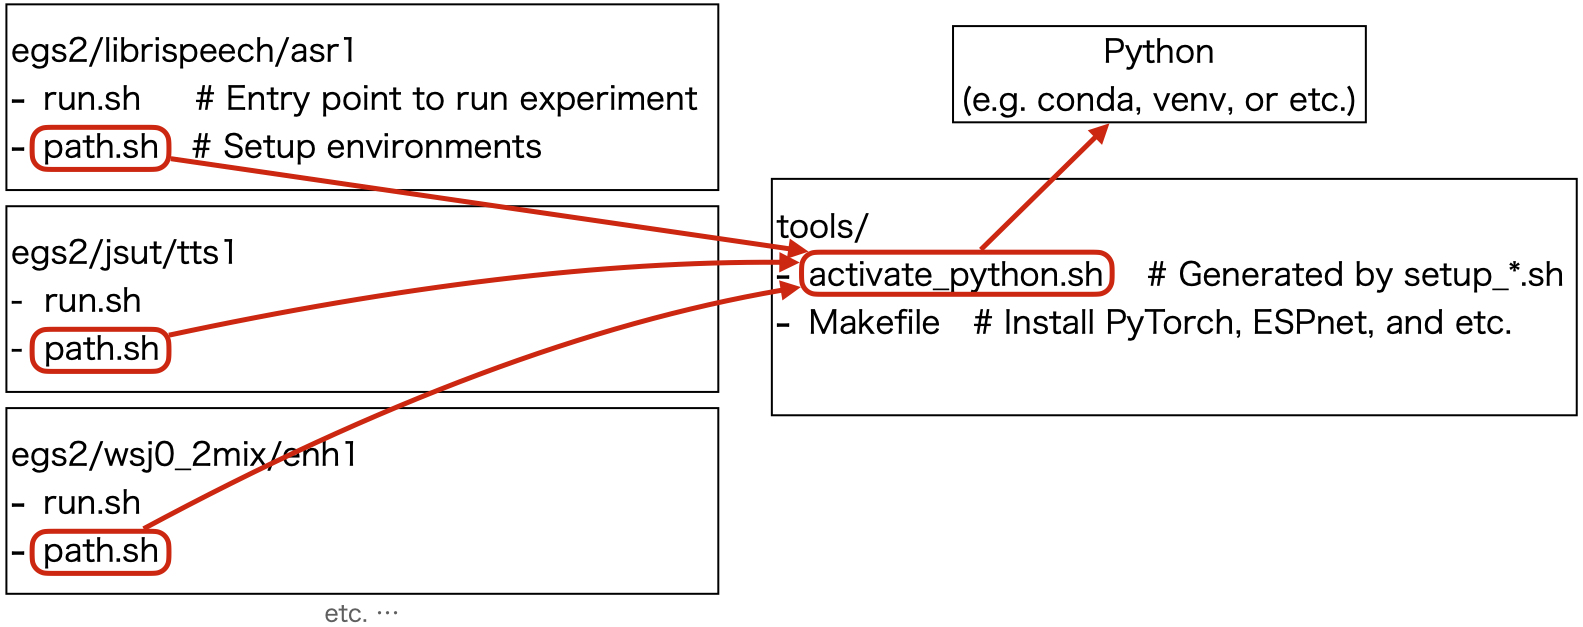
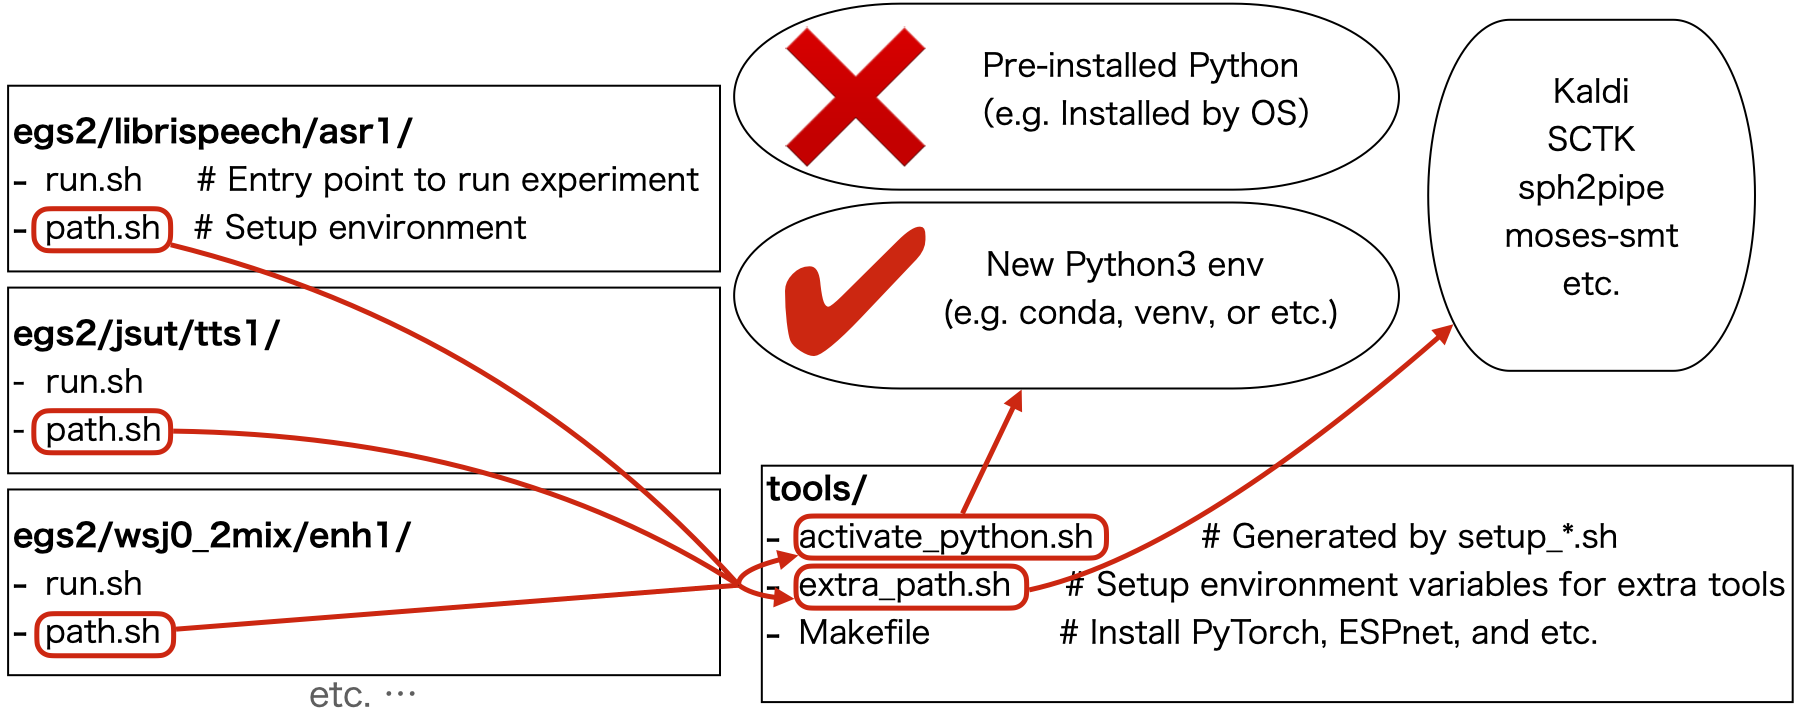
Update documentation (#5063)
* Update installation.md

* Delete environment_structure.png

* [pre-commit.ci] auto fixes from pre-commit.com hooks

for more information, see https://pre-commit.ci

* Add files via upload

* Update README.md

* [skip ci]

* [skip ci]

* [pre-commit.ci] auto fixes from pre-commit.com hooks

for more information, see https://pre-commit.ci

* [skip ci]

* [skip ci]

* [skip ci]

* [skip ci]

* [pre-commit.ci] auto fixes from pre-commit.com hooks

for more information, see https://pre-commit.ci

* Update espnet2_format_wav_scp.md

* [pre-commit.ci] auto fixes from pre-commit.com hooks

for more information, see https://pre-commit.ci

* Update espnet2_format_wav_scp.md

* [skip ci]

* Create README.md

* [skip ci]

* Create README.md

* Update espnet2_format_wav_scp.md

* Update espnet2_format_wav_scp.md

* [pre-commit.ci] auto fixes from pre-commit.com hooks

for more information, see https://pre-commit.ci

* Update espnet2_format_wav_scp.md

* Update espnet2_format_wav_scp.md

* Update espnet2_format_wav_scp.md

* Update espnet2_format_wav_scp.md

---------

diff --git a/doc/espnet2_format_wav_scp.md b/doc/espnet2_format_wav_scp.md
@@ -1,0 +1,160 @@
+# Converting audio file formats using format_wav_scp.py
+
+The [format_wav_scp.py](https://github.com/espnet/espnet/tree/master/egs2/TEMPLATE/asr1/pyscripts/audio/format_wav_scp.py) is an utility to convert the audio format of the files specified `wav.scp`
+and the [format_wav_scp.sh](https://github.com/espnet/espnet/blob/master/egs2/TEMPLATE/asr1/scripts/audio/format_wav_scp.sh) is a shell script wrapping `format_wav_scp.py`.
+In the typical case, in the stage3 of the [template recipe](https://github.com/espnet/espnet/blob/master/egs2/TEMPLATE),
+`format_wav_scp.sh` is used to convert the audio file format of your original corpus to the audio format which you actually want to feed to the DNN model.
+
+`format_wav_scp.py` and `format_wav_scp.sh` has same function of generation `wav.scp` from `wav.scp`, but　`format_wav_scp.sh` is different in that　it has the capability of parallel processing.
+
+```
+wav.scp -> [format_wav_scp.py] -> wav.scp
+
+wav.scp -> [format_wav_scp.sh] -> wav.scp
+```
+
+Note that `format_wav_scp.py` dumps audio files with linear PCM with `sint16` regardless the input audio format.
+
+## Quick usage
+
+
+At the first, you need to prepare a text file named as `wav.scp`:
+
+```
+ID_a /some_where/a.wav
+ID_b /some_where2/b.wav
+...
+```
+
+`ID_a`and `ID_b` are the IDs which you can name arbitrarily to specify audio files. Note that **we don't assume any directory stuctures for the audio files**.
+
+
+```sh
+# Please change directory before using our shell scripts
+cd egs2/some_corpus/some_task
+
+cmd=utils/run.pl
+nj=10  # Number of parallel jobs
+audio_fomrat=flac  # The audio codec of output files
+fs=16k  # The sampling frequency of output files
+ref_channels=0  # If the input data has multiple channels and you want to use only a single channel in the file (please spicify the channel with 0-based number)
+./scripts/audio/format_wav_scp.sh --nj "${nj}" --cmd "${cmd}" --audio_format "${audio_format}" --fs "${fs}" --ref_channels "${ref_channels}" somewhere/wav.scp output_dir
+
+# Then, you can find output_dir/wav.scp
+```
+
+See also:
+
+- About `wav.scp`: https://github.com/espnet/data_example
+- About `cmd`:  [Using job scheduling system](parallelization.md)
+
+
+## Why is audio file formatting necessary?
+
+The audio data included in the corpus obtained from the source website are distributed in various audio file formats,
+i.e., the audio codec (`wav` of `linear PCM`, `flac`, `mp3`, `DSD`, `u-law`, `a-law`or etc.), the sampling frequency (`48khz`, `44.1khz`, `16khz`, `8khz`, or etc.),
+the bit depth (`uint8`, `sint16`, `sint32`, `float20`, `float32` or etc.),
+the number of channels (`monaural`, `stereo`, or more than 2ch), the byter order(`little endian` or `big endian`).
+
+When you try to develop a new recipe with a corpus that is not yet prepared in our recipes,
+of course, you can also try to use the audio data as they are without any formatting.
+However,
+in a typical case, the configuration of our DNN model may assume the specific audio format,
+especially regarding the sampling frequency and the data precision.
+If you　are conservative with your new recipe,
+we recommend converting them to the original recipe's audio format.
+For example, `16khz` and `sint16` audio is typically used in our ASR recipes.
+
+
+## The audio file formats supported in ESPnet2
+
+ESPnet adopts [python soundifile](https://github.com/bastibe/python-soundfile)
+for data loading, and, thus the supported audio codecs depend on [libsndfile](http://www.mega-nerd.com/libsndfile/).
+
+You can check the supported audio codecs of `soundfile` with the following command:
+
+```python
+import soundfile
+print(soundfile.available_formats())
+```
+
+Note that the `wav.scp` of Kaldi originally requires that the audio format is wav with pcm_s16le type,
+but **`wav.scp` of ESPnet2 can handle all audio formats supported by soundfile**. e.g. You can use `flac` format in `wav.scp` for the input/output of `format_wav_scp.py`.
+
+Depending on the situation, you may choose one of the following codecs:
+
+|  Codec  |  Compression | Maximum channnels | Maximum sampling frequency|Note|
+| ---- | ---- | ---- | ---- | ---- |
+|  wav (Microsoft wav with linear pcm) | No |  1024  | - | |
+|  flac  |  Lossless  | 8 | 192khz ||
+| mp3 | Lossy | 2 | 48khz | The patent of MP3 has expired |
+| ogg (Vorbis) | Lossy | 255 | 192khz | Segmentation fault happens |
+
+
+By default, we select `flac` because `flac` can convert linear pcm files with compression rate of ~55 % without data loss.
+`flac` is helpful to reduce the IO load, especially, when training with a large amount of corpus.
+If you would like to change it to the other format, please use `--audio_format` option for `run.sh`.
+
+```sh
+cd egs2/some_corpus/some_task
+./run.sh --audio_format mp3
+```
+
+Note that if the audio files in your corpus are disributed with lossy audio codec, such as `MP3`,
+it's better to keep the file format to avoid the duplication of the full corpus with the uncompressed format.　 **If the input audio format type is exactly same as the output format, `format_wav_scp.py` avoid the gengeration of the output files and reuse the input files**.
+
+## Use case
+
+
+### Case1: Extract segmentations with long recoding
+
+Create `wav.scp` and `segments` with the format of `The format is <utterance_id> <wav_id> <start_time> <end_time>` (second unit).
+
+`wav.scp`:
+
+```
+record_a a.wav
+...
+```
+
+`segments`:
+
+```
+segment_a record_a 0.98 11.56
+segment_a record_a 12.34 15.43
+...
+```
+
+
+
+Then, you can extract the segments with:
+
+
+```sh
+./scripts/audio/format_wav_scp.sh --segments segments wav.scp output_dir
+```
+
+### Case2: Extract audio data from video codec / Use non supported format by soundfile
+
+`ffmpeg` is required. Create `wav.scp` as following:
+
+```
+ID_a ffmpeg -i "ID_a.mp4" -f wav -af pan="1c|c0=c0" -acodec pcm_s16le - |
+ID_b ffmpeg -i "ID_b.mp4" -f wav -af pan="1c|c0=c0" -acodec pcm_s16le - |
+...
+```
+
+- Note: `-af pan` is [pan filter](https://ffmpeg.org/ffmpeg-filters.html#pan-1).
+  - `<num>c|` specifies `<num>` of output channels
+  - `|c<out-channel>=c<in-channel>` assigns `<in-channel>`th channel of input stream into `<out-channel>`th channel of output stream
+- Caution: `-map_channel` option is deprecated and will be removed.
+
+### Case3: Convert NIST Sphere files to wav
+
+`sph2pipe` is required. Create `wav.scp` as following:
+
+```
+ID_a sph2pipe -f wav -p -c 1 ID_a.sph |
+ID_b sph2pipe -f wav -p -c 1 ID_b.sph |
+...
+```

diff --git a/doc/installation.md b/doc/installation.md
@@ -30,8 +30,8 @@ the following packages are installed using conda, so you can skip them.)
 ### Supported Linux distributions and other requirements
 
 We support the following Linux distributions with CI. If you want to build your own Linux by yourself,
-please also check our [CI configurations](https://github.com/espnet/espnet/tree/master/.github/workflows).
-to prepare the appropriate environments
+please also check our [CI configurations](https://github.com/espnet/espnet/tree/master/.github/workflows)
+to prepare the appropriate environments.
 
 - ubuntu18
 - centos7
@@ -169,7 +169,7 @@ We also have [prebuilt Kaldi binaries](https://github.com/espnet/espnet/blob/mas
         $ cd <espnet-root>/tools
         $ ./setup_python.sh $(command -v python3)
         ```
-    - Option D) Without setting Python environment.
+    - Option D) Without setting Python environment
 
         `Option C` and `Option D` are almost same. This option might be suitable for Google colab.
 
@@ -217,21 +217,18 @@ e.g.
 - To install Warp Transducer
     ```sh
     cd <espnet-root>/tools
-    . activate_python.sh
-    . ./setup_cuda_env.sh <cuda-root>  # e.g. <cuda-root> = /usr/local/cuda
-    ./installers/install_warp-transducer.sh
+    cuda_root=<cuda-root>  # e.g. <cuda-root> = /usr/local/cuda
+    bach -c ". activate_python.sh; . ./setup_cuda_env.sh $cuda_root; ./installers/install_warp-transducer.sh"
     ```
 - To install PyOpenJTalk
     ```sh
     cd <espnet-root>/tools
-    . activate_python.sh
-    ./installers/install_pyopenjtalk.sh
+    bash -c ". activate_python.sh; ./installers/install_pyopenjtalk.sh"
     ```
 - To install a module using pip: e.g. to intstall ipython
     ```sh
     cd <espnet-root>/tools
-    . activate_python.sh
-    pip install ipython
+    bash -c ". activate_python.sh; pip install ipython"
     ```
 
 ### Check installation
@@ -240,4 +237,5 @@ You can check whether your installation is successfully finished by
 cd <espnet-root>/tools
 bash -c ". ./activate_python.sh; . ./extra_path.sh; python3 check_install.py"
 ```
+
 Note that this check is always called in the last stage of the above installation.

diff --git a/tools/README.md b/tools/README.md
@@ -33,8 +33,15 @@ make
 
 For more detail: https://espnet.github.io/espnet/installation.html#step-2-installation-espnet
 
+
+
 ## Check installation
 
 ```sh
 bash -c ". ./activate_python.sh; . ./extra_path.sh; python3 check_install.py"
 ```
+
+
+## Caution
+
+ESPnet recommends preparing a new Python environment independent of your pre-existing Python because pre-installed modules in your existing Python sometimes conflict with the dependencies of ESPnet. If you still want to install ESPnet in your original Python, all issues which might happen are under your responsibility.

diff --git a/doc/index.rst b/doc/index.rst
@@ -25,6 +25,7 @@ ESPnet is an end-to-end speech processing toolkit, mainly focuses on end-to-end 
 
    ./espnet2_tutorial.md
    ./espnet2_training_option.md
+   ./espnet2_format_wav_scp.md
    ./espnet2_task.md
    ./espnet2_distributed.md
 

diff --git a/doc/parallelization.md b/doc/parallelization.md
@@ -1,4 +1,4 @@
-# Using Job scheduling system
+# Using job scheduling system
 
 Our recipes support some Job scheduling systems, SGE, PBS/Torque,
 and Slurm, according to [Parallelization in Kaldi](https://kaldi-asr.org/doc/queue.html).

diff --git a/egs2/TEMPLATE/asr1/scripts/README.md b/egs2/TEMPLATE/asr1/scripts/README.md
@@ -1,0 +1,3 @@
+# Shell scripts developed in ESPnet2
+
+See also [scripts/audio/format_wav_scp.sh](https://espnet.github.io/espnet/espnet2_format_wav_scp.html).

diff --git a/egs2/TEMPLATE/asr1/pyscripts/README.md b/egs2/TEMPLATE/asr1/pyscripts/README.md
@@ -1,0 +1,1 @@
+# Python command line utilities developed in ESPnet2
